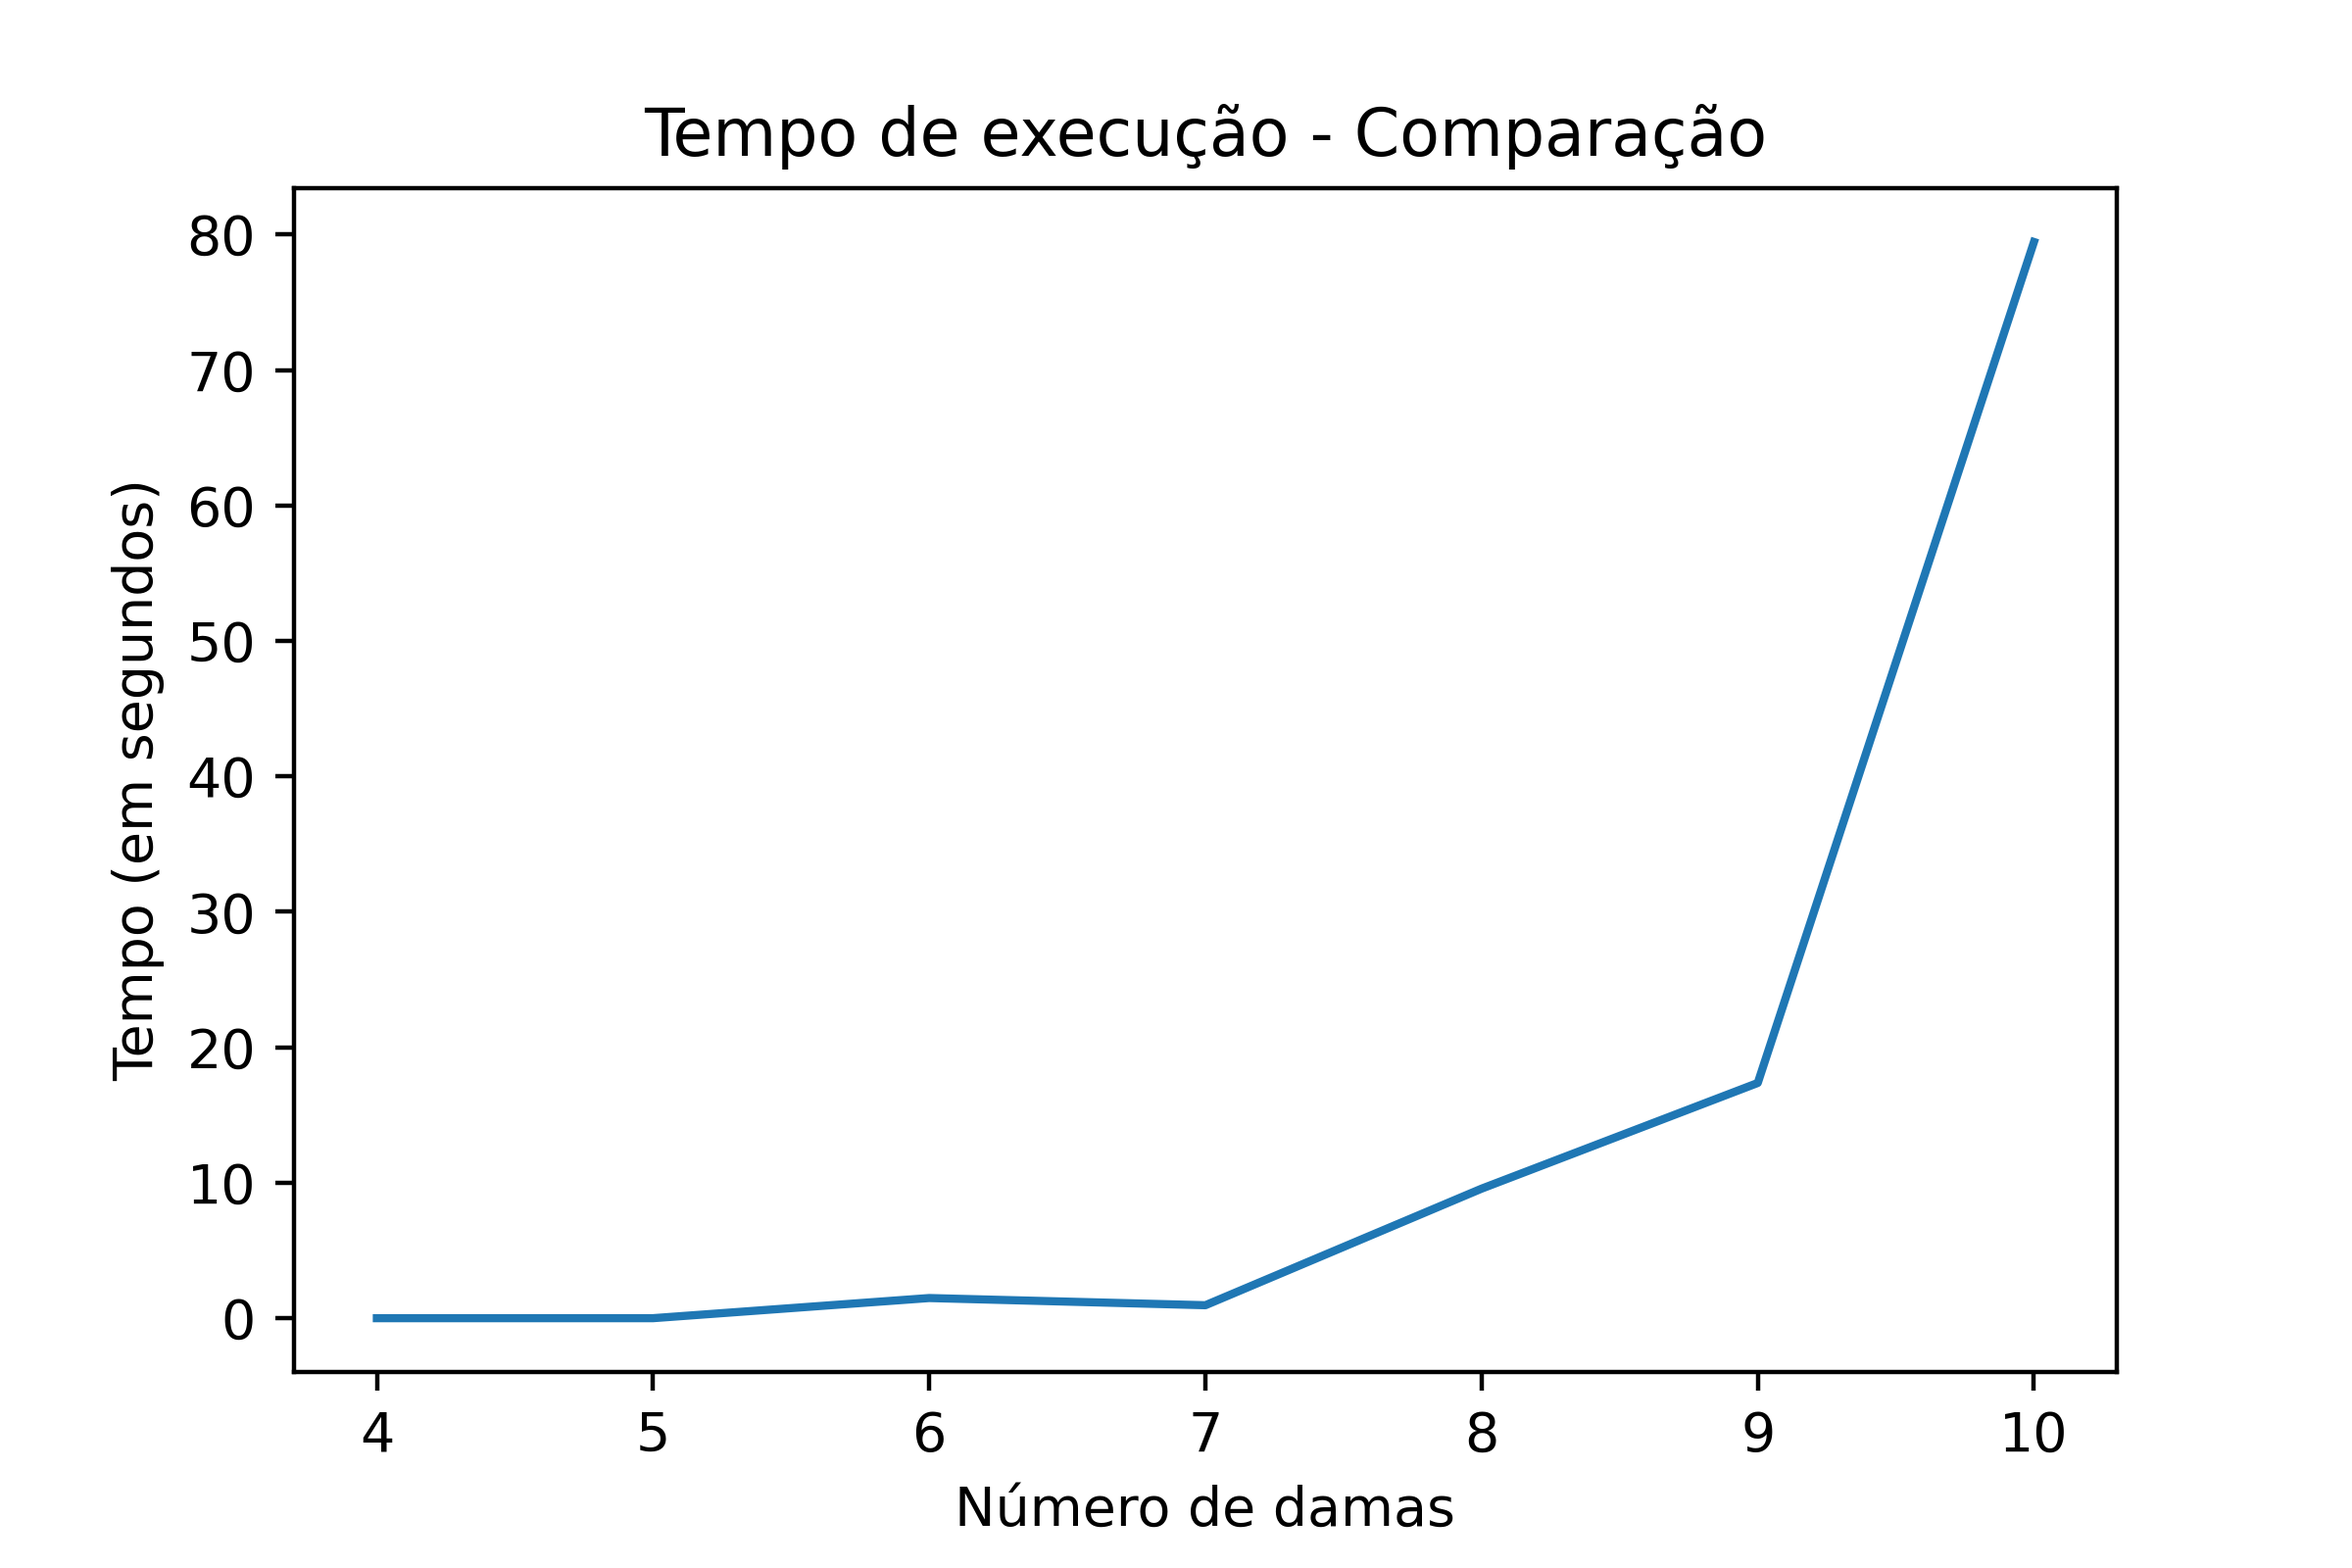
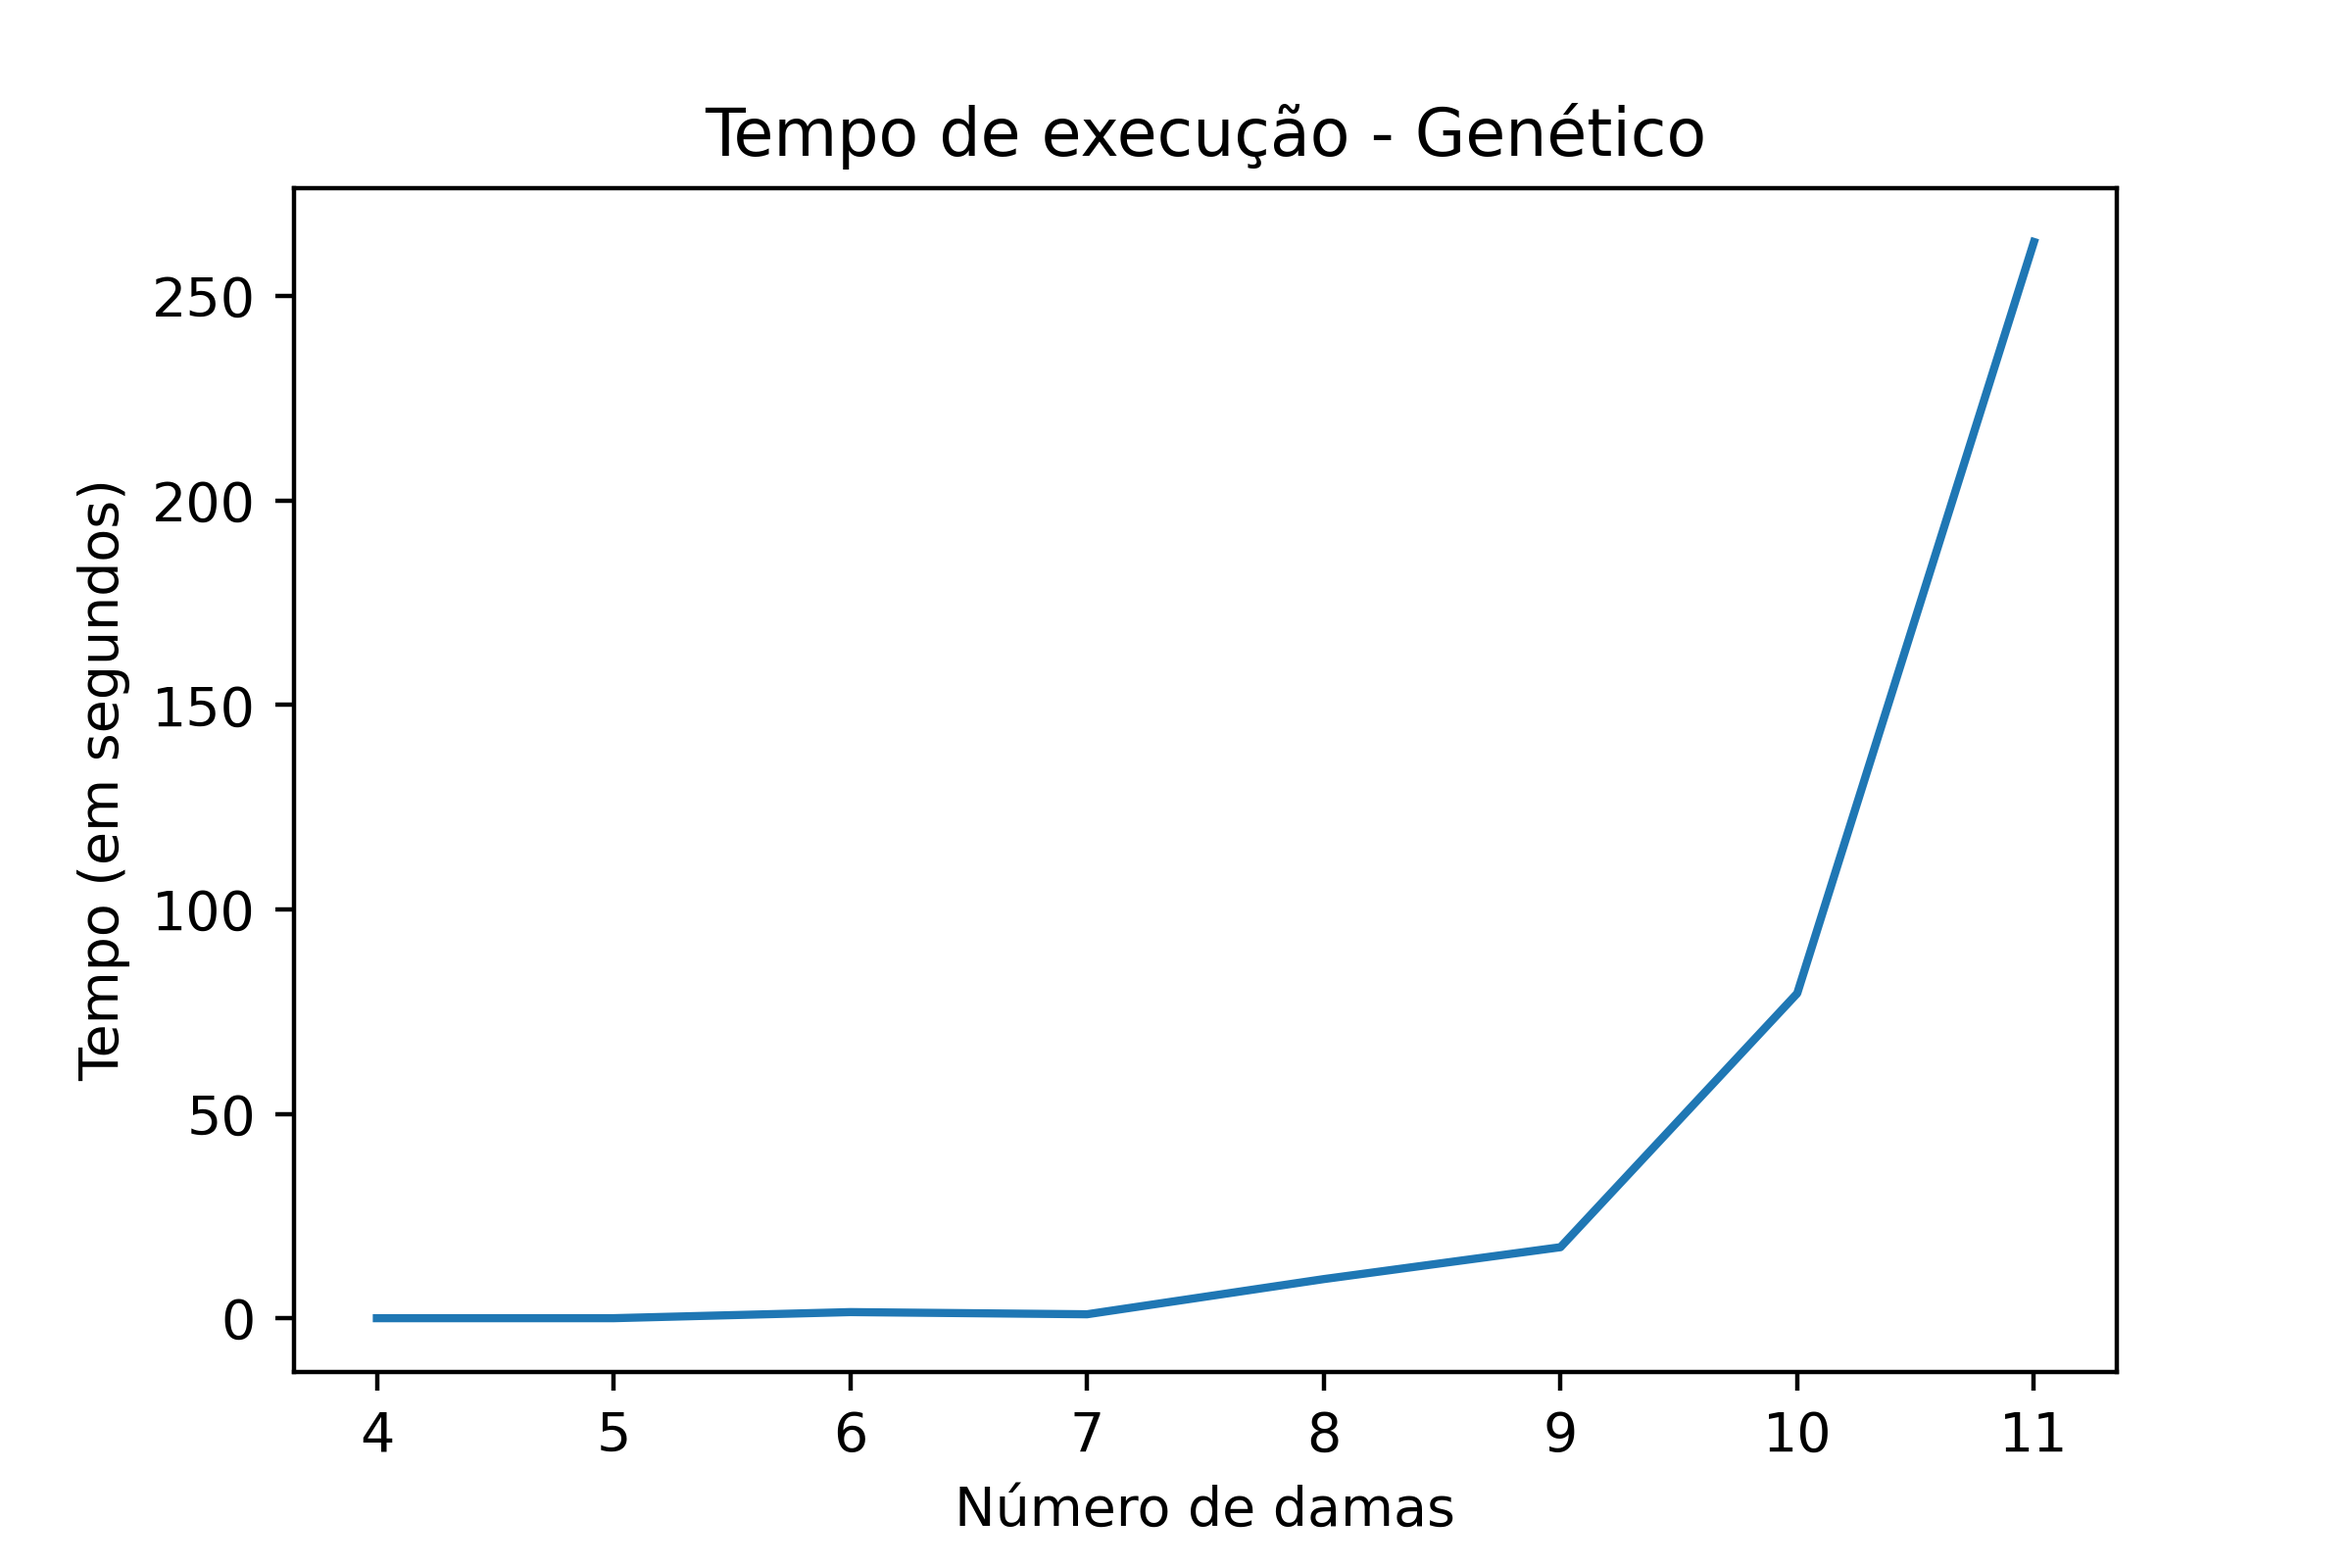
imagem nova

diff --git a/IA1/geneticoRainha2.py b/IA1/geneticoRainha2.py
@@ -182,11 +182,11 @@ def time_test():
     None
     """
     # Resultado
-    #[0.0011059000001296226, 0.001464750000013737, 1.4886926599999242, 0.9575531100000717, 9.563682670000025, 17.365219170000092, 79.44766261000004]
+    Y1 = [0.0011059000001296226, 0.001464750000013737, 1.4886926599999242, 0.9575531100000717, 9.563682670000025, 17.365219170000092, 79.44766261000004, 263.24039344]
     population_size = 100
     result = []
-    
-    for number_of_queens in range(11,12):   
+    """
+    for number_of_queens in range(4,12):   
         time_list = []
         for i in range(10):
             start = time.perf_counter()
@@ -204,16 +204,22 @@ def time_test():
             print(time_list)
         result.append(np.mean(time_list))
     print(result)
-    X = [4, 5, 6, 7, 8, 9, 10, 11]
-    Y = result
-    plt.xticks(range(min(X), max(X)+1))
+    """
+    X1= [4, 5, 6, 7, 8, 9, 10, 11]
+    X2 = [4, 5, 6, 7, 8, 9, 10, 11, 12, 13, 14]
+    Y2 = [0.001334849999994958, 0.0010872799999987136, 0.0188632699999971, 0.03865948000000401, 0.10604329999999607, 0.3117452799999995, 3.8193840500000023, 9.175329600000003, 37.35564776, 34.212411299999985, 304.13998848999995]
 
-    plt.plot(X, Y, label = "genético")    
+    #Y = result
+    plt.xticks(range(min(X2), max(X2)+1))
 
+    plt.plot(X1, Y1, label = "genético")    
+    plt.plot(X2, Y2, label = "tabu")    
+    
+    plt.legend()
     plt.title("Tempo de execução - Comparação")    
     plt.xlabel("Número de damas")
     plt.ylabel("Tempo (em segundos)")
-    plt.savefig("time_of_execution.png",dpi=400)
+    plt.savefig("time_of_execution_comparition.png",dpi=400)
 
     
 def show_board(chromosome, number_of_queens):
@@ -238,8 +244,8 @@ def show_board(chromosome, number_of_queens):
 
 def main():  
     
-    #time_test()
-    
+    time_test()
+    """
     print("---------------------------------------")
     print("| Selecione a complexidade do problema|")
     print("| 1 - Complexidade baixa - 6 damas    |")
@@ -282,6 +288,6 @@ def main():
     print("Uma solução possível para o problema de {}-damas é {}".format(number_of_queens,
                                                                          possible_solution))
     show_board(possible_solution, number_of_queens)
-    
+    """
 if __name__ == "__main__":
     main()
